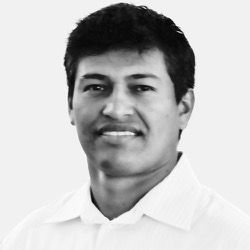
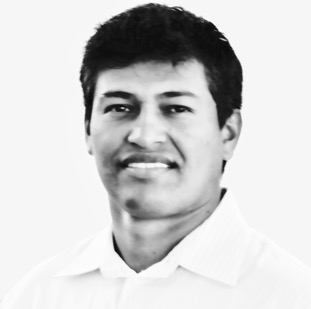
Updated some information.

diff --git a/landob-websolutions/index.html b/landob-websolutions/index.html
@@ -139,7 +139,7 @@
 			<div class="col-sm-3">
 			</div>
 			<div class="col-sm-6 wow fadeIn">
-				<img src="img/RolandoBernalProBW.jpg" class="img-responsive img-circle img-about" alt="about-portrait">
+				<img src="img/RolandoBernalProBW.PNG" class="img-responsive img-circle img-about" alt="about-portrait">
 			</div>
 			<div class="col-sm-3">
 			</div>
